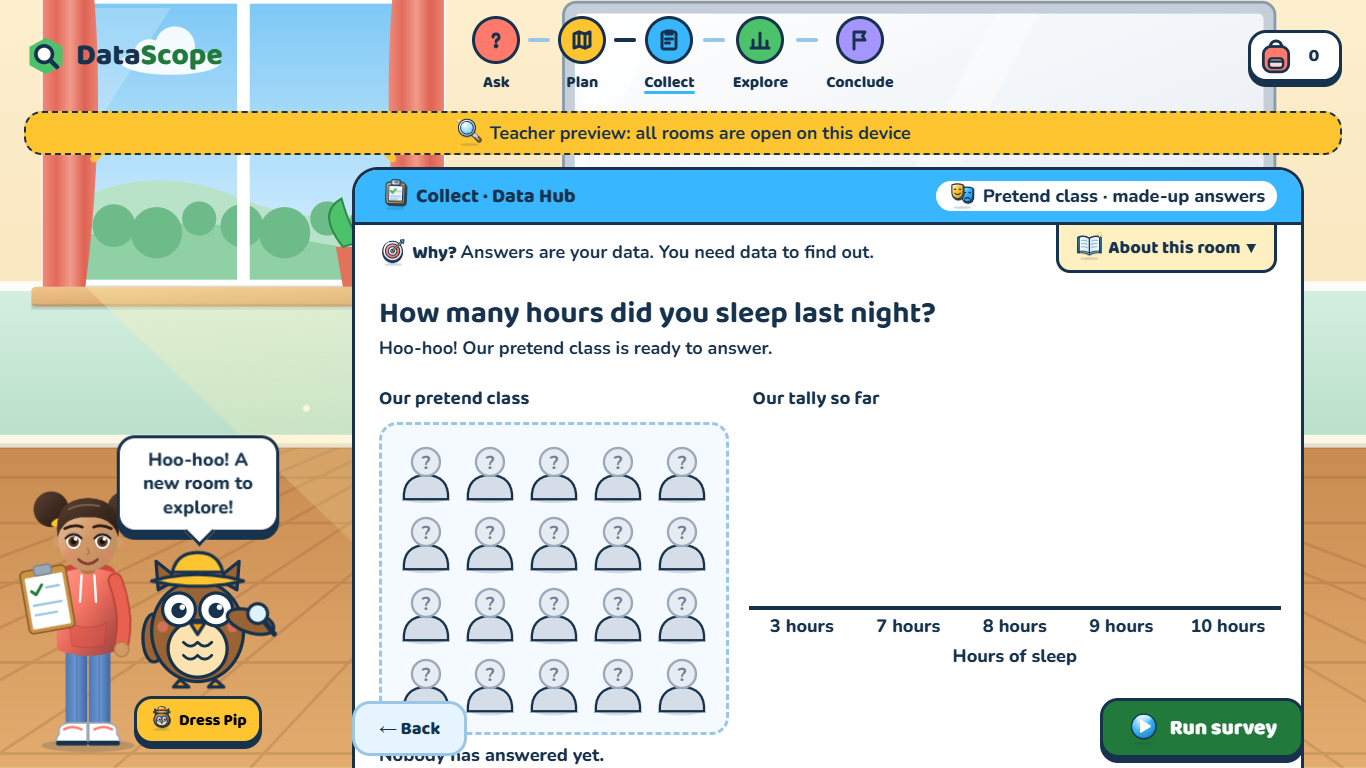
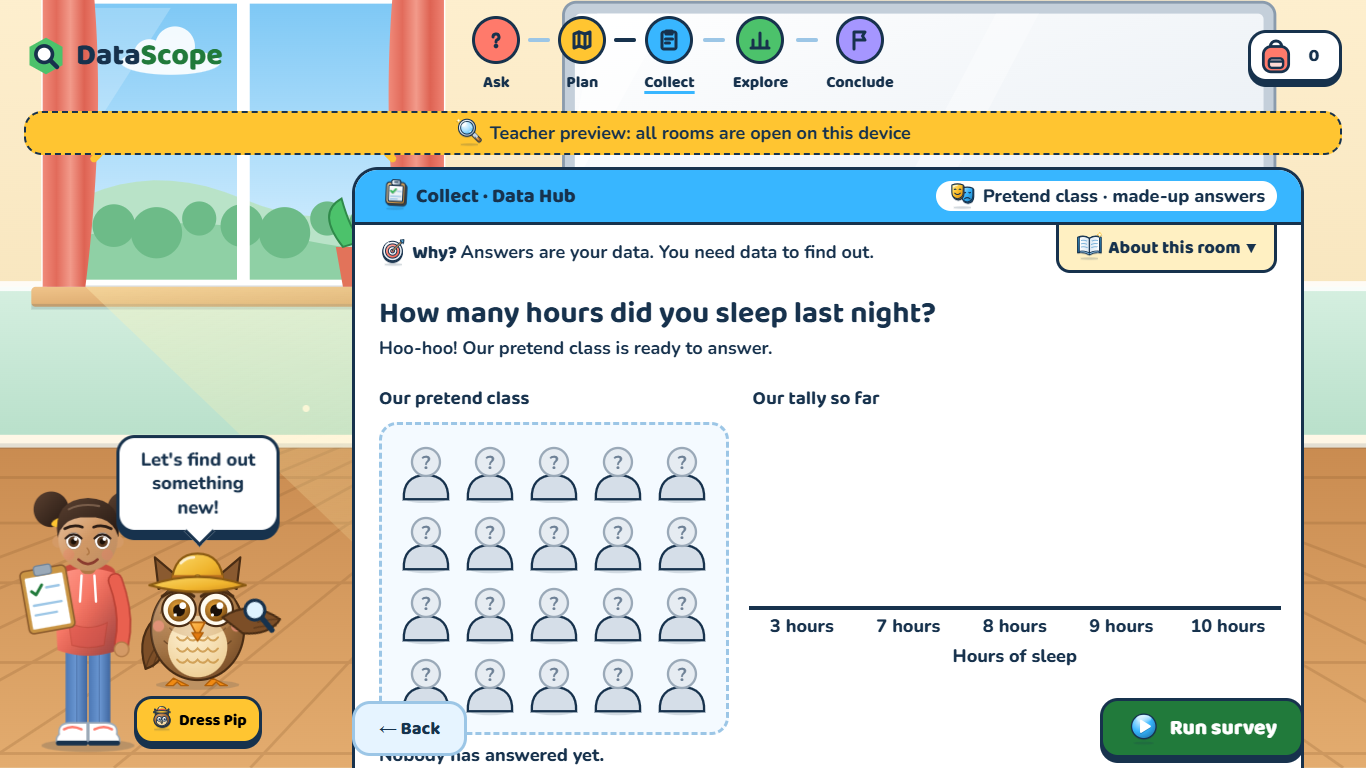
Part 59b: Number Lab becomes a maths workshop (no digits or maths words in the scene)
- js/scenes/workshop.js: chalkboard (chalk bar chart, pie, ruler), blocks with
  dots, abacus, plant; 3 chalk-dust specks; Sara thinks.
- js/scenes/parts.js: floor, shelf, plant shared by the scenes (classroom too).
- Test: the workshop has no text (Part 51: games visit Number Lab).
- After screenshots updated (also Data Hub with the new Pip). No logic change.

Changed region(s): [[0.0922, 0.5625, 0.2152, 0.9062]]

diff --git a/js/scenes/workshop.js b/js/scenes/workshop.js
@@ -1,0 +1,57 @@
+// Part 59b: the Number Lab's place, a maths workshop (our own SVG, after
+// docs/design/datascope-rooms-ui.html): a chalkboard, a shelf of building
+// blocks, an abacus and a plant. A still picture; only chalk dust moves.
+// No digits or maths words anywhere (Part 51: the games scenario visits this
+// room too, and never talks about numbers), so the chalkboard shows a drawn
+// bar chart and a ruler, and the blocks have dots.
+import { floor, shelf, plant, STEP_COLOURS } from './parts.js';
+
+const NAVY = '#17324D';
+
+// The chalkboard sits high on the left wall, above Sara and Pip: a bar chart,
+// a wave, a pie chart and a ruler, drawn in chalk.
+function chalkboard() {
+  const bars = [[34, 40], [62, 70], [90, 98], [118, 58]]
+    .map(([x, h]) => `<rect x="${x}" y="${128 - h}" width="20" height="${h}" rx="2"/>`).join('');
+  const ticks = Array.from({ length: 9 }, (_, i) => `<path d="M${40 + i * 20} 142 v${i % 2 ? 5 : 9}"/>`).join('');
+  return `<g transform="translate(6 112)">
+    <rect width="246" height="168" rx="6" fill="#8C5B2D" stroke="#6B4423" stroke-width="3"/>
+    <rect x="9" y="9" width="228" height="150" rx="3" fill="#2F5A4C"/>
+    <rect x="9" y="9" width="228" height="150" fill="url(#ds-shade)" opacity=".6"/>
+    <g fill="none" stroke="#fff" stroke-width="2.4" stroke-linecap="round" opacity=".85">
+      <path d="M28 28 V130 H150"/>${bars}
+      <path d="M168 50 q14 -10 26 0 t26 0"/>
+      <circle cx="190" cy="98" r="18"/><path d="M190 80 V98 H208"/>
+    </g>
+    <g stroke="#FFE27A" stroke-width="2.4" stroke-linecap="round" opacity=".9">
+      <path d="M36 138 H212" stroke-width="3"/>${ticks}
+    </g>
+    <rect x="190" y="150" width="30" height="8" rx="2" fill="#fff"/></g>`;
+}
+
+// Building blocks with 1 to 3 dots (dots, not digits).
+function blocks() {
+  const dots = (n) => [[11, 13], [6, 8], [16, 18]].slice(0, n).map(([cx, cy]) => `<circle cx="${cx}" cy="${cy}" r="2.6" fill="#fff"/>`).join('');
+  return Array.from({ length: 9 }, (_, i) => `<g transform="translate(${10 + i * 25} -26)">
+    <rect width="22" height="26" rx="4" fill="${STEP_COLOURS[i % 5]}" stroke="${NAVY}" stroke-width="2"/>${dots((i % 3) + 1)}</g>`).join('');
+}
+
+function abacus() {
+  const rods = STEP_COLOURS.map((colour, i) => {
+    const beads = Array.from({ length: i % 2 ? 6 : 4 }, (_, j) => `<circle cx="${14 + i * 40}" cy="${-12 - j * 4.5}" r="5" fill="${colour}" stroke="${NAVY}" stroke-width="1.4"/>`).join('');
+    return `<path d="M${14 + i * 40} -34 V-6" stroke="#8C5B2D" stroke-width="3"/>${beads}`;
+  }).join('');
+  return `<g transform="translate(20 0)"><rect y="-34" width="200" height="6" rx="3" fill="#8C5B2D"/>${rods}</g>`;
+}
+
+export function workshop() {
+  return `
+  <rect width="960" height="600" fill="url(#ds-wall-blue)"/>
+  <rect y="270" width="960" height="108" fill="url(#ds-panel)"/>
+  <rect y="266" width="960" height="7" fill="#fff" opacity=".8"/>
+  ${floor(378)}
+  ${chalkboard()}
+  ${shelf(8, 318, 240, blocks())}
+  ${shelf(8, 364, 240, abacus())}
+  ${plant(900, 372, 1.1)}`;
+}

diff --git a/js/scenes/parts.js b/js/scenes/parts.js
@@ -1,0 +1,32 @@
+// Part 59: pieces that several room scenes share (on the 960 x 600 stage).
+// Our own SVG, after docs/design/datascope-rooms-ui.html. Still pictures only.
+const NAVY = '#17324D';
+export const STEP_COLOURS = ['#FF7A6B', '#FFC531', '#38B6FF', '#4CC26B', '#A596FF'];
+
+// A wooden floor from `top` down to the bottom, with boards that run away
+// from the viewer, and a white skirting line along the wall.
+export function floor(top, gradient = 'ds-floor') {
+  let lines = '';
+  for (let x = -400; x <= 1360; x += 96) lines += `<path d="M${x} 600 L${Math.round(480 + (x - 480) * 0.3)} ${top}"/>`;
+  const boards = [24, 56, 98, 154, 218].map((dy) => `<path d="M0 ${top + dy} H960"/>`).join('');
+  return `
+  <rect y="${top}" width="960" height="${600 - top}" fill="url(#${gradient})"/>
+  <g stroke="#8C5B2D" stroke-width="2" opacity=".24">${lines}${boards}</g>
+  <rect y="${top - 6}" width="960" height="9" fill="#FFF7E6"/>
+  <rect y="${top}" width="960" height="4" fill="${NAVY}" opacity=".12"/>`;
+}
+
+// A wooden shelf at (x, y), `w` wide, with `items` standing on it (drawn above y = 0).
+export function shelf(x, y, w, items) {
+  return `<g transform="translate(${x} ${y})">${items}
+    <rect width="${w}" height="9" rx="3" fill="url(#ds-wood-top)" stroke="#8C5B2D" stroke-width="1.6"/>
+    <rect x="6" y="9" width="6" height="14" fill="#8C5B2D"/><rect x="${w - 12}" y="9" width="6" height="14" fill="#8C5B2D"/></g>`;
+}
+
+// A potted plant standing at (x, y), `scale` times its normal size.
+export function plant(x, y, scale = 1) {
+  return `<g transform="translate(${x} ${y}) scale(${scale})">
+    <path d="M-22 0 L22 0 L17 38 L-17 38Z" fill="#E2735A" stroke="${NAVY}" stroke-width="2.4"/>
+    <rect x="-24" y="-5" width="48" height="9" rx="3" fill="#F08A7A" stroke="${NAVY}" stroke-width="2.4"/>
+    <path d="M0 -5 Q-30 -30 -26 -62 Q-6 -46 0 -5Z M0 -5 Q6 -48 22 -70 Q34 -40 0 -5Z M0 -5 Q-4 -40 4 -76 Q20 -40 0 -5Z" fill="url(#ds-leaf)" stroke="#2F8A4A" stroke-width="1.6"/></g>`;
+}

diff --git a/js/scenes/classroom.js b/js/scenes/classroom.js
@@ -2,10 +2,12 @@
 // docs/design/datascope-rooms-ui.html). Drawn on a 960 x 600 stage; the
 // window and the floor are on the left, where Sara and Pip stand.
 // It is a still picture: the only things that move are the dust specks
-// (separate small elements, see SCENE_AMBIENT in js/scenes/index.js).
+// (separate small elements, see `ambient` in js/scenes/index.js).
 // Left out on purpose: the sun (Round 4 rule), a ticking clock (it looks
 // like a timer), the blur filters (slow on school laptops) and the wall
 // posters (they sat right behind the step bar's words).
+import { floor } from './parts.js';
+
 const NAVY = '#17324D';
 
 function windowWithCurtains() {
@@ -42,23 +44,12 @@ function whiteboard() {
   <rect x="440" y="266" width="420" height="10" rx="3" fill="#B0BEC9" stroke="#8A9BAD" stroke-width="1.5"/>${pens}`;
 }
 
-function floor() {
-  let lines = '';
-  for (let x = -400; x <= 1360; x += 96) lines += `<path d="M${x} 600 L${Math.round(480 + (x - 480) * 0.3)} 372"/>`;
-  const boards = [396, 428, 470, 526, 590].map((y) => `<path d="M0 ${y} H960"/>`).join('');
-  return `
-  <rect y="372" width="960" height="228" fill="url(#ds-floor)"/>
-  <g stroke="#8C5B2D" stroke-width="2" opacity=".24">${lines}${boards}</g>
-  <rect y="366" width="960" height="9" fill="#FFF7E6"/>
-  <rect y="372" width="960" height="4" fill="${NAVY}" opacity=".12"/>`;
-}
-
 export function classroom() {
   return `
   <rect width="960" height="600" fill="url(#ds-wall)"/>
   <rect y="262" width="960" height="112" fill="url(#ds-wains)"/>
   <rect y="258" width="960" height="7" fill="#fff" opacity=".85"/>
-  ${floor()}
+  ${floor(372)}
   ${windowWithCurtains()}
   <path d="M60 262 L300 262 L690 520 L330 520Z" fill="url(#ds-beam)" opacity=".5"/>
   ${whiteboard()}`;

diff --git a/js/scenes/index.js b/js/scenes/index.js
@@ -10,6 +10,7 @@
 import { FEATURES } from '../config.js';
 import { mountSceneDefs } from './defs.js';
 import { classroom } from './classroom.js';
+import { workshop } from './workshop.js';
 import { saraSVG } from '../characters.js';
 
 // Room (phase id) -> its place. Rooms move to scenes one part at a time;
@@ -28,6 +29,16 @@ export const ROOM_SCENES = {
       { kind: 'dust', x: 40, y: 70, seconds: 12, delay: -2 },
       { kind: 'dust', x: 46, y: 62, seconds: 9.5, delay: -7 },
       { kind: 'dust', x: 52, y: 76, seconds: 11.5, delay: -4 },
+    ],
+  },
+  number: {
+    draw: workshop,
+    sara: 'think',
+    // A little chalk dust drifting up from the chalkboard's tray.
+    ambient: [
+      { kind: 'dust', x: 18, y: 46, seconds: 10, delay: 0 },
+      { kind: 'dust', x: 21, y: 44, seconds: 12, delay: -4 },
+      { kind: 'dust', x: 24, y: 47, seconds: 11, delay: -8 },
     ],
   },
 };

diff --git a/js/scenes/defs.js b/js/scenes/defs.js
@@ -31,6 +31,10 @@ export const SCENE_DEFS = [
   lin('board', [[0, '#FFFFFF'], [1, '#E4EBF2']], 1, 1),
   lin('beam', [[0, '#FFF3B8', 0.7], [1, '#FFE9A0', 0]], 1, 1),
   lin('curtain', [[0, '#F08A7A'], [0.25, '#E26B5B'], [0.5, '#F29A8A'], [0.75, '#DE6353'], [1, '#EE8272']], 1, 0),
+  // the maths workshop (Number Lab)
+  lin('wall-blue', [[0, '#D6E9FF'], [1, '#B7D6F5']]),
+  lin('panel', [[0, '#E3A765'], [1, '#C98B50']]),
+  rad('leaf', [[0, '#8BE393'], [0.55, '#4DB462'], [1, '#25774A']], 0.35, 0.3, 0.85),
   // Sara
   lin('hoodie', [[0, '#FF9A8B'], [0.55, '#F26A58'], [1, '#C94A3D']], 1, 1),
   lin('jeans', [[0, '#4C78B5'], [0.5, '#6A97D2'], [1, '#3F669F']], 1, 0),

diff --git a/tests/scenes.test.js b/tests/scenes.test.js
@@ -42,6 +42,10 @@ test("Pip keeps every part his moods and moves need (css/base.css, css/shell.css
   }
 });
 
+test('the Number Lab workshop has no words or digits (Part 51: the games scenario visits it)', () => {
+  assert.doesNotMatch(ROOM_SCENES.number.draw(), /<text/);
+});
+
 test('the scenes have no sun and no ticking clock (Round 4 rule; no timers)', () => {
   for (const [room, plan] of Object.entries(ROOM_SCENES)) {
     assert.doesNotMatch(plan.draw(), /sun|clock/i, room);

diff --git a/docs/project-notes.md b/docs/project-notes.md
@@ -179,6 +179,7 @@ bugs" rule:** deliberate changes based on the pilot children's feedback.
   log CSV; filter them out there. `thesis-metrics.csv` never uses them. The outfit is
   per browser: a child on another laptop sees Pip in his explorer hat again.
 - Not yet tested on a real Chromebook or tablet, or with a real screen reader.
+- **For Habiba (found in 59b):** the games Number Lab prediction still says "Estimate first, then check the statistics!" (number words, Part 51). Content, not changed yet.
 - **Part 59:** the story still draws the old flat Sara (`js/story-characters.js`); the rooms
   use the new one (`js/characters.js`). Switch the story when it moves to the v2 look.
   On 10 Nov 2026 Claude's checks sent a few rows under TEST-01 and OWL-07 to the database
@@ -269,7 +270,8 @@ Parts 42 to 51. Claude commits each part; nothing is pushed until Habiba says "p
 | 58 | 10 Nov | `4341676` `5a8ad94` (this commit) (Habiba's spec called it Part 53) | **Pip's Wardrobe.** 58a: Pip draws outfit layers on every screen (back, neck, face, head, then the beak, held item in the right wing; default pixel-identical to before); 16 items, unlock by badge (real ids: `changed-mind`, `claim`, ...) or finished step; saved per code; `FEATURES.wardrobe`. 58b: the Wardrobe pop-up (tabs, tick when worn, New!, locked silhouette + Pip says how to find it, Take everything off, Surprise me), "Dress Pip" in the backpack and on My journey, "New for Pip" line inside the badge pop-up. **New log events `wardrobe-opened`, `outfit-changed` {slot, itemId} (room `wardrobe`): NOT reasoning data, only in the class log CSV.** No existing field changed. Checked in Chrome at 1366 and 768, and with the switch off. **58d (Habiba):** a yellow "Dress Pip" button under big Pip (laptop screens, 1240 px and wider; narrower: the backpack), and "Try it on Pip" in the badge pop-up: the badge still lands in the backpack, then (after any waiting pop-up, `afterAllModals()`) the Wardrobe opens with the new item on Pip. Only the main badge button pulses. **58e (Habiba):** "Dress Pip" under Pip on the start page (needs the code in the box first: the outfit is kept per code), and a one-time pop-up "New: Pip's Wardrobe!" when the child first presses Start exploring (before any room, never on top of the story): Pip dressed up, 3 short lines, "Dress Pip now" or "Start exploring". Shown once per code (`introSeen` in the wardrobe save; cleared with the device). Not logged. |
 
 | 59a | 10 Nov | `db23bc2` (Habiba's brief called it Part 54; 54 to 58 were taken) | **Every room becomes a place, step 1: Data Hub = a classroom.** Shared scene layer: `js/scenes/` (defs.js = the `ds-` gradients, once per page; one file per scene; index.js = which room gets which scene, Sara's pose, what moves), `js/characters.js` (the mockup's Sara, the seat kids), `css/scenes.css`. The scene is a still SVG covering the window like a photo; only 6 dust specks move (transform + opacity), paused in a hidden tab, stopped by reduced motion. No sun, no ticking clock, no blur or noise filters (tested). At 1240 px and wider Sara stands left with big Pip in front of her and the card moves right; narrower: scene only. Seats are small classmates; the shirt and the answer badge have the bar's colour (+ the answer as text). **`FEATURES.richScenes`** (config.js): false = plain colour, no hills, no clouds, nothing moving, card centred. Fixed on the way: at 360 px the "Why?" line was squeezed beside the About tab (it now goes under it). Speed (1366x768, CPU 4x slower): 59 to 60 fps with scenes on and off, main thread equally busy. No logic, log field or content changed. Screenshots: `docs/design/screens/before/` (all rooms) and `after/`. |
-| 59p | 10 Nov | (this commit) | **Pip in the rooms mockup's look** (Habiba chose B): soft brown outlines, shading, amber eyes, a two-part beak, three-toed feet, a soft shadow, and the mockup's explorer hat. Drawn at 85% of the mockup and moved so his eyes, body and beak sit where they were (within 1 px), so all 16 Wardrobe items fit unchanged (checked on a contact sheet: every item, all on at once, think and cheer). Same class names, so every mood, blink, wink, wave and the story's talking beak still work; only the right wing's turning points moved (base.css, badges.css). His colours are now in `js/pip.js` (no longer in base.css); his 5 gradients in `js/scenes/defs.js`, put on every page by `pipSVG()`. Not changed: the small owl icon in `js/illustrations.js` (Habiba's icon set). No log field changed. |
+| 59p | 10 Nov | `1cbcfe9` | **Pip in the rooms mockup's look** (Habiba chose B): soft brown outlines, shading, amber eyes, a two-part beak, three-toed feet, a soft shadow, and the mockup's explorer hat. Drawn at 85% of the mockup and moved so his eyes, body and beak sit where they were (within 1 px), so all 16 Wardrobe items fit unchanged (checked on a contact sheet: every item, all on at once, think and cheer). Same class names, so every mood, blink, wink, wave and the story's talking beak still work; only the right wing's turning points moved (base.css, badges.css). His colours are now in `js/pip.js` (no longer in base.css); his 5 gradients in `js/scenes/defs.js`, put on every page by `pipSVG()`. Not changed: the small owl icon in `js/illustrations.js` (Habiba's icon set). No log field changed. |
+| 59b | 10 Nov | (this commit) | **Number Lab = a maths workshop:** a chalkboard (a chalk bar chart, a wave, a pie and a ruler), a shelf of building blocks with dots, an abacus and a plant; 3 chalk-dust specks move. **No digits or maths words in the scene** (the mockup's "3 + 4 = 7, mean, median" and numbered blocks were left out: Part 51, the games scenario visits this room; tested). Sara thinks (hand on chin). Shared scene pieces moved to `js/scenes/parts.js` (floor, shelf, plant; the classroom uses them too, same picture). Not taken from the mockup: the automatic glowing "Middle!" card (it would give the Real life answer away; the child finds the centre, Part 56). "Show statistics" after the estimate was already there. Speed (CPU 4x slower): 58 to 60 fps, scenes on and off. No logic, log or content change. |
 
 **Decisions (Habiba, 10 Nov 2026, Part 59):** the mockups `docs/design/datascope-rooms-ui.html` and `datascope-story-ui-v2.html` are the reference. **Pip gets the mockup's artwork** (step 59p, right after 59a: all 16 Wardrobe items must be moved onto him). The start page keeps "Start exploring" as the main button (the story stays secondary); 6 doors, locked ones greyed. Speed is checked with Chrome's CPU slowed 4x until a Chromebook is available. Scenes have **no sun, birds, flowers or swaying grass**; only clouds, dust and the funfair flag move; the scenes replace the floating room shapes (Part 43a) room by room. Order: 59a Data Hub, 59p Pip, 59b Number Lab, 59c Question Studio, 59d Graph Lab, 59e Chance Lab, 59f Evidence Board, 59g Start page; ask Habiba before each room (also before changing a room's logic or words, e.g. Graph Lab's "NOT tell" after 2 graphs, Evidence Board's "Ready to share!").
 
